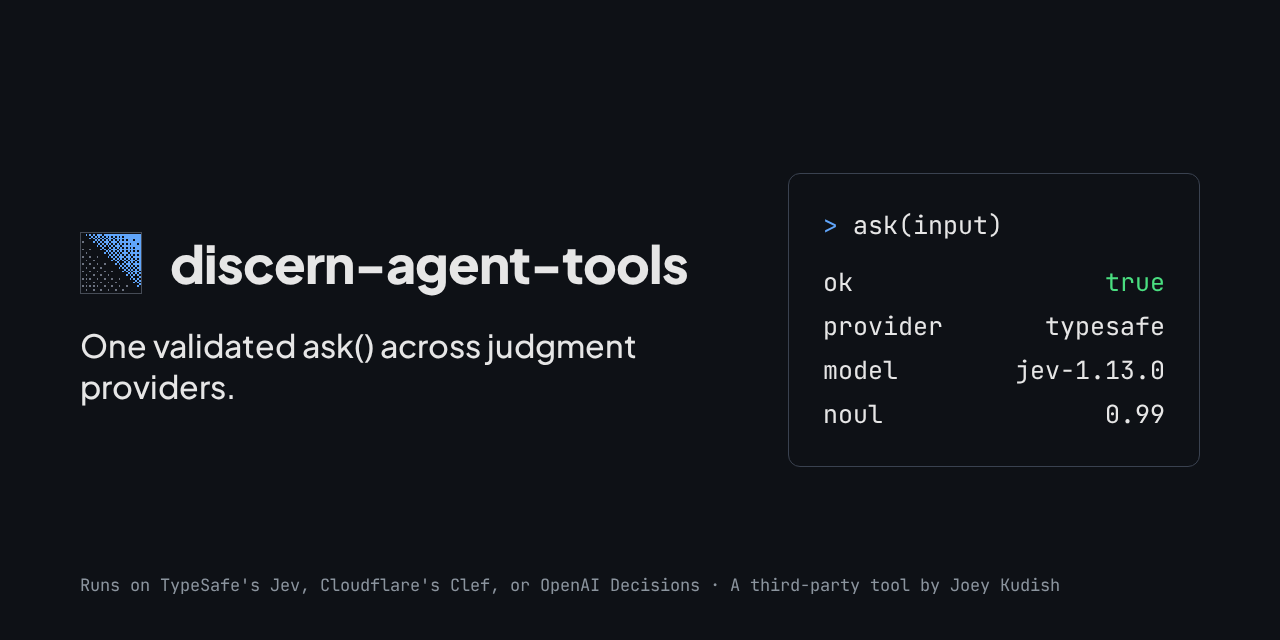
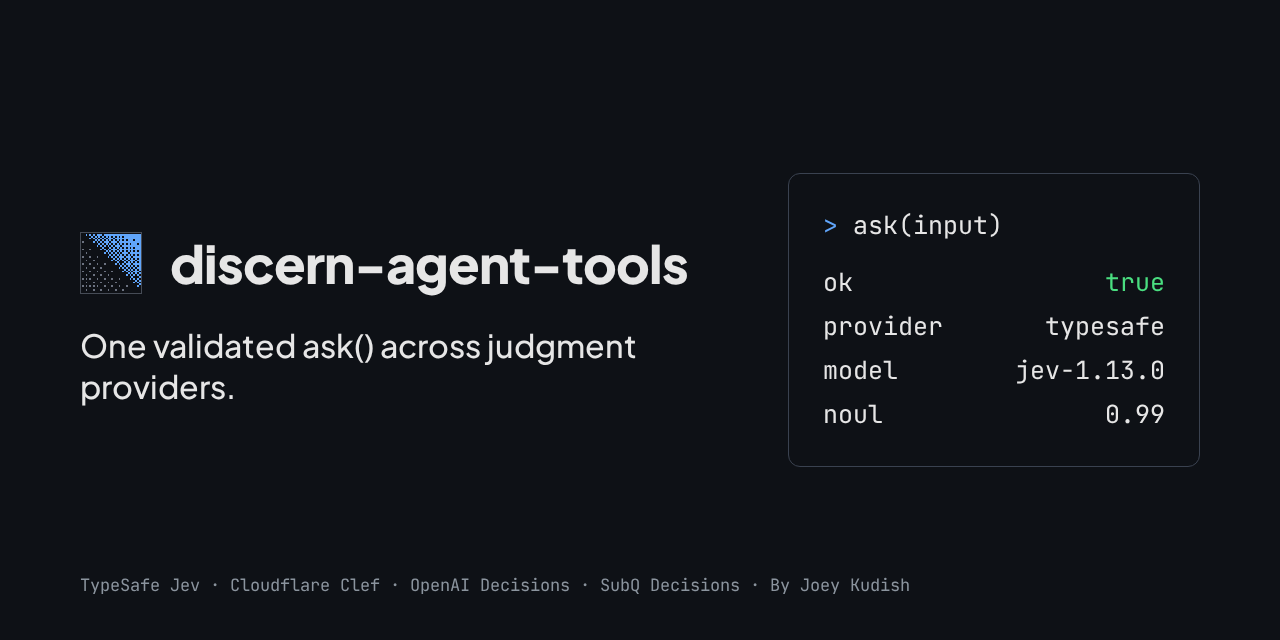
docs: complete Discern provider roster in copy and brand assets
Amp-Thread-ID: https://ampcode.com/threads/T-01a1131b-9a0c-70dd-a0b9-27814548f21a

Changed region(s): [[0.0625, 0.9062, 0.8438, 0.9375]]

diff --git a/README.md b/README.md
@@ -4,7 +4,7 @@
 [![License: MIT](https://img.shields.io/badge/License-MIT-blue.svg)](LICENSE)
 
 <p align="center">
-  <img src=".github/discern-agent-tools-banner.png" alt="discern-agent-tools: one validated ask() across judgment providers. Runs on TypeSafe's Jev, Cloudflare's Clef, or OpenAI Decisions." />
+  <img src=".github/discern-agent-tools-banner.png" alt="discern-agent-tools: one validated ask() across TypeSafe's Jev, Cloudflare's Clef, OpenAI Decisions, and SubQ Decisions." />
 </p>
 
 Multi-provider judgment transport with fail-closed validation, used by [Discern Browser](https://github.com/jkudish/discern-browser) and [Discern MCP](https://github.com/jkudish/discern-mcp). It sends typed questions to TypeSafe's Jev, Cloudflare's Clef, OpenAI Decisions, or SubQ Decisions.
